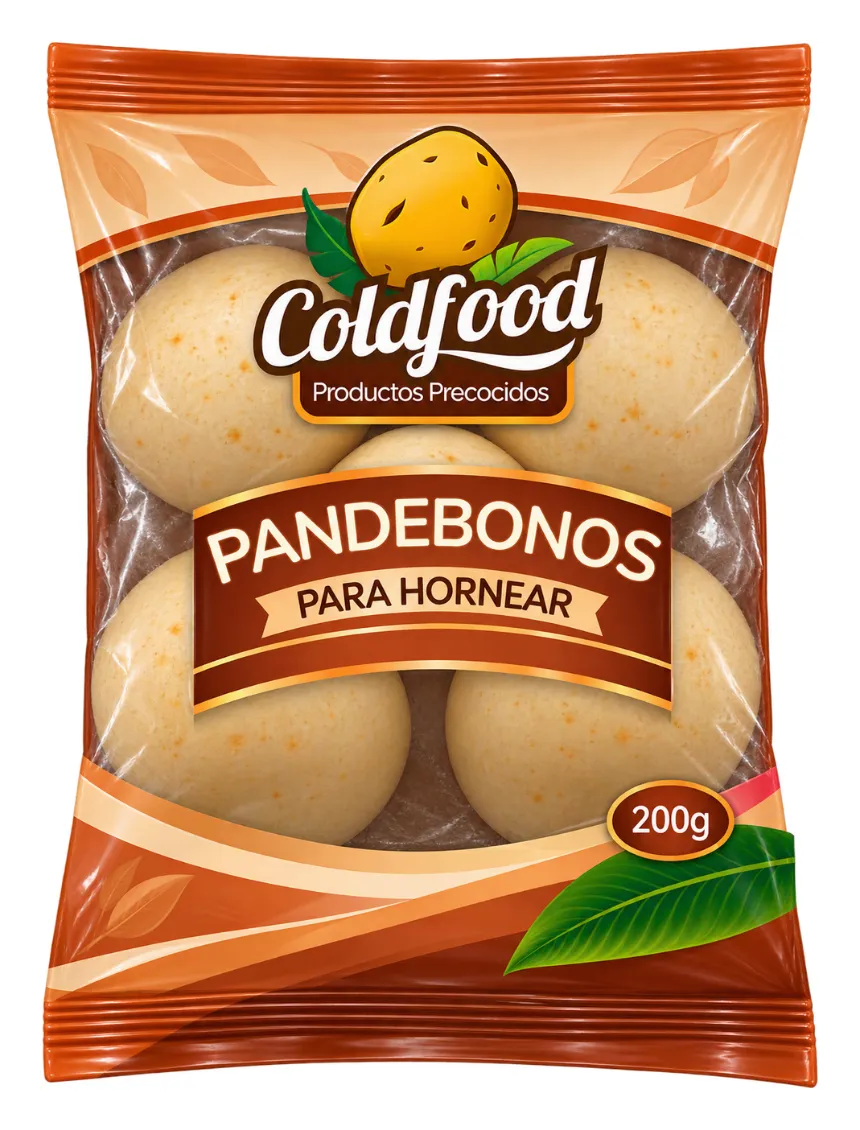
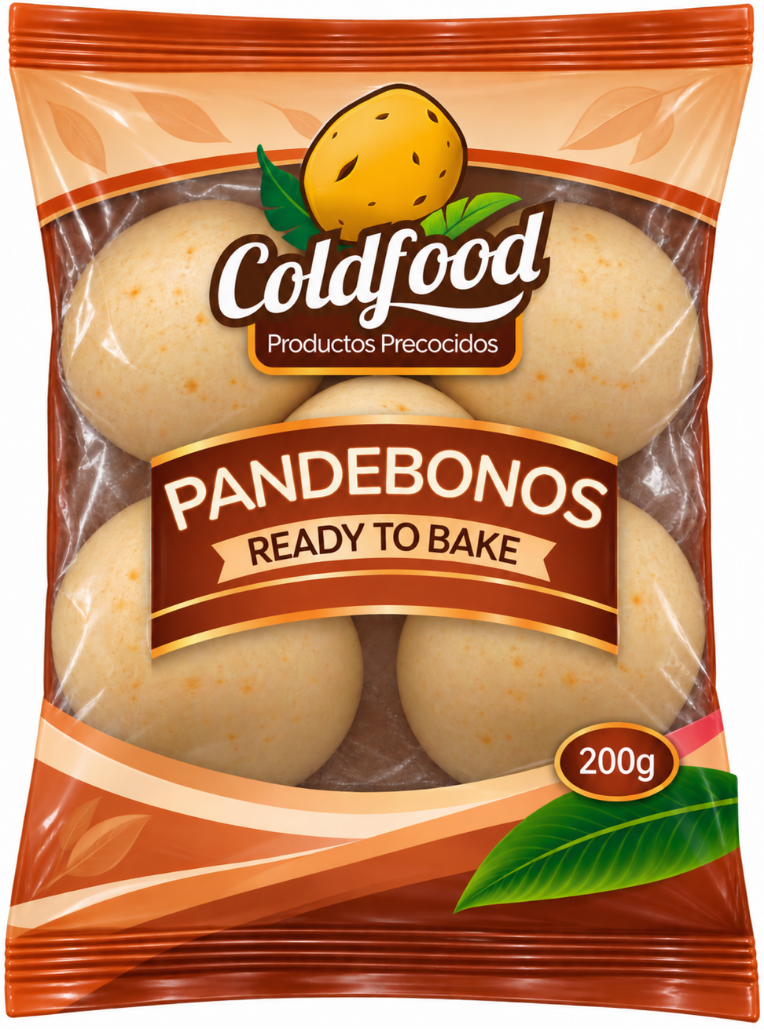
orden de menu cambio en dos imagens de prefritos, que las iamgenes estaban mal y una imgen de pandebono en ingles

diff --git a/src/data/categories.ts b/src/data/categories.ts
@@ -90,8 +90,8 @@ export const CATEGORIES: Category[] = [
 	},
 	{
 		slug: 'masas-listas',
-		es: 'Productos de Panadería',
-		en: 'Bakery Products',
+		es: 'Masas Listas',
+		en: 'Ready-to-use Doughs',
 		usage: {
 			es: 'Masas y productos de panadería precocidos o prehorneados, listos para hornear en el punto de venta y servir recién horneados.',
 			en: 'Pre-cooked or par-baked dough products, ready to bake on-site and serve fresh out of the oven.',
